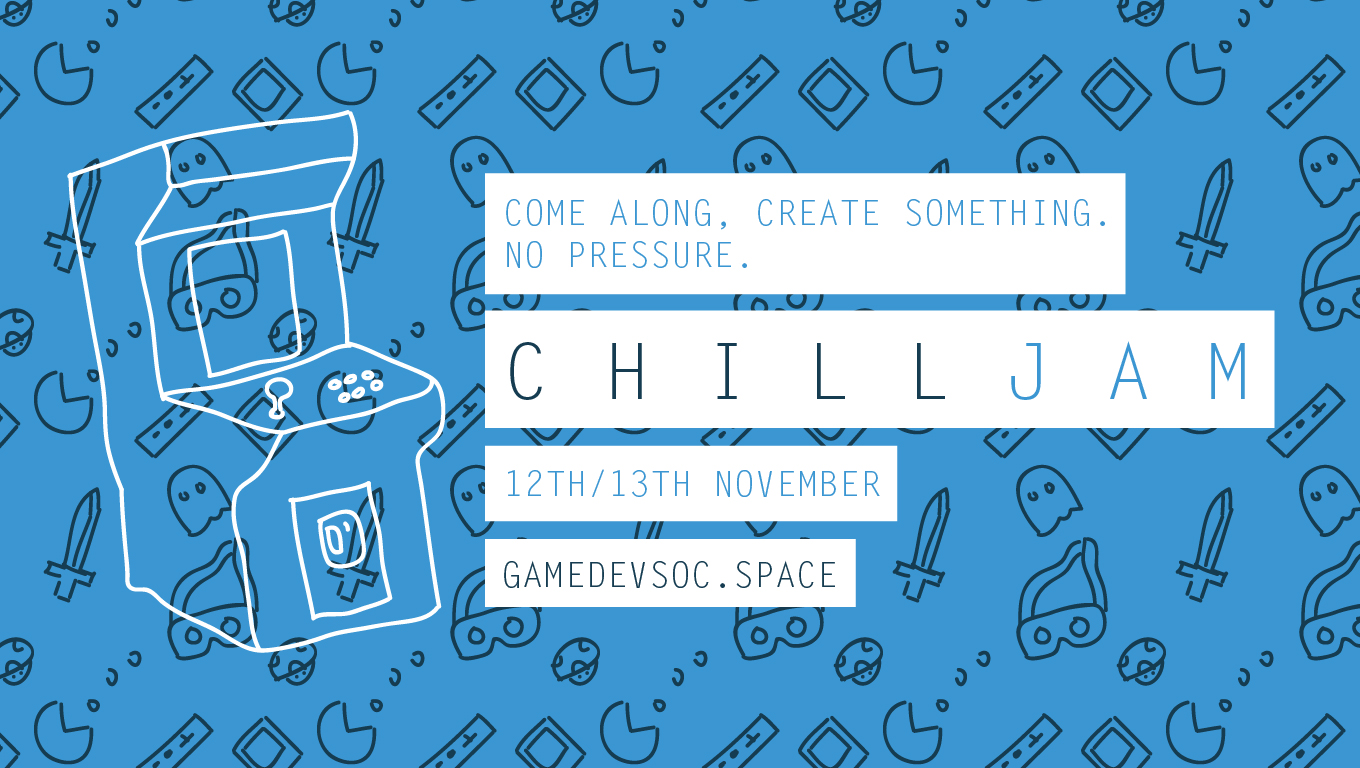
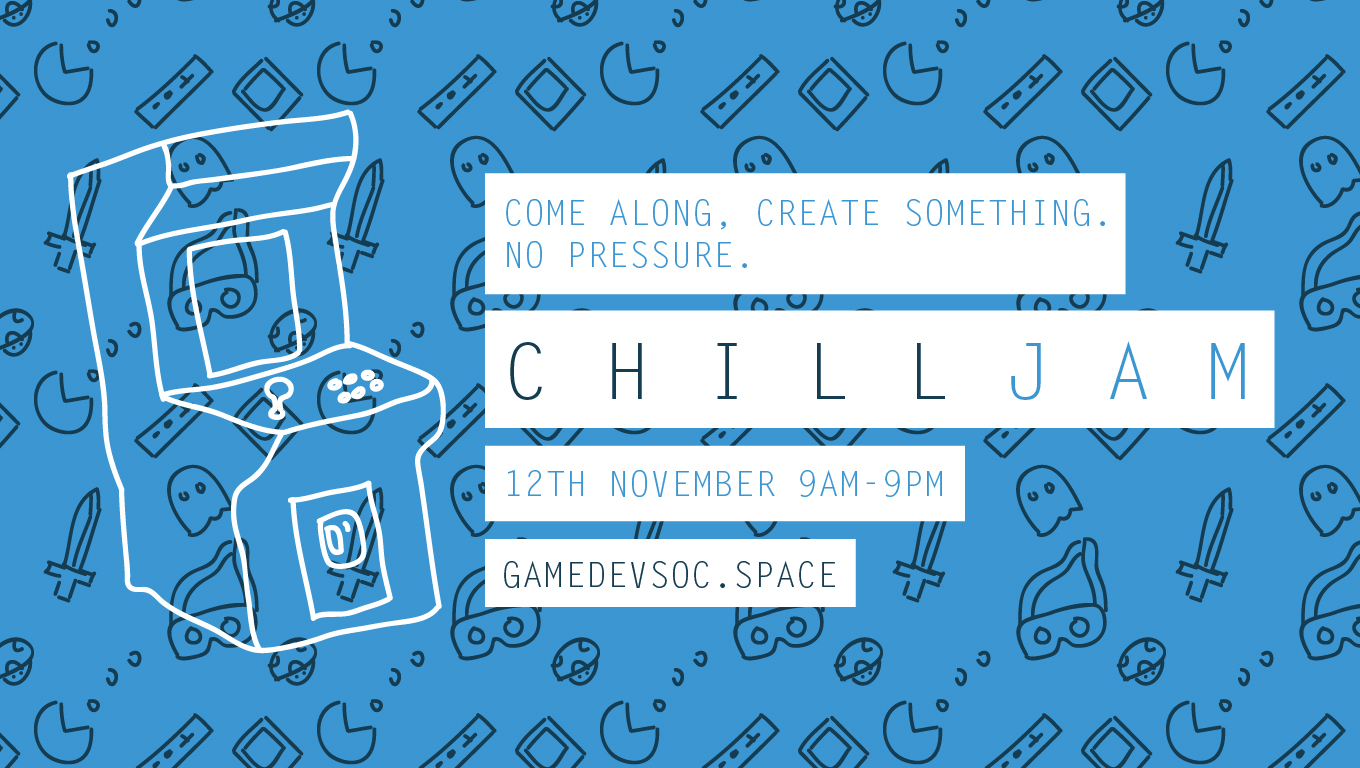
updated time

diff --git a/index.html b/index.html
@@ -175,7 +175,7 @@ font-size:20px;
 
   <div class="container-fluid text-center whitebg aroundus">
         <img src="artwork2.jpg" style="margin-bottom:15px;width:100%;"/>
-        <h2 class="darkblue"><span class="blue">CHILLJAM</span> - GAMEJAM ON THE 12TH/13TH NOVEMBER. MORE INFO COMING SOON TO OUR <a href="https://www.facebook.com/events/338874873170804/" id="darklink">FACEBOOK EVENT</a>!</h2>
+        <h2 class="darkblue"><span class="blue">CHILLJAM</span> - GAMEJAM ON THE 12TH NOVEMBER, TEVIOT (STUDY), EDINBURGH. MORE INFO ON OUR <a href="https://www.facebook.com/events/338874873170804/" id="darklink">FACEBOOK EVENT</a>!</h2>
       </div>
 
 
